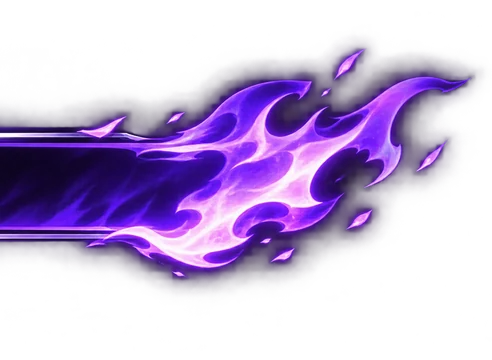
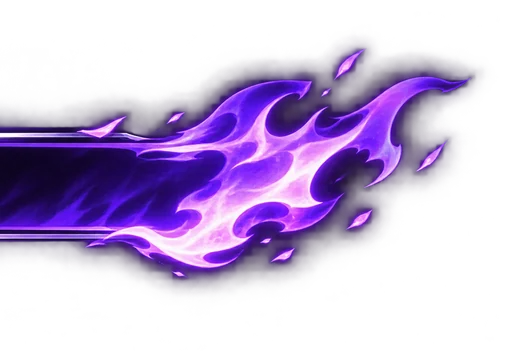
炎の枠: 右端の切れを直し、炎の揺れ・火の粉・光を止める
Claude-Session: https://claude.ai/code/session_015yQDkHHgGwZRUv8gTA9cxp

Changed region(s): [[0.122, 0.1222, 0.9756, 0.7944], [0.3049, 0.4889, 0.3354, 0.5194], [0.0915, 0.5806, 0.122, 0.6111]]

diff --git a/site/titles.css b/site/titles.css
@@ -280,50 +280,23 @@
   --bz-f: none; --bz-glow: #b46bff;
   position: relative; display: inline-flex; align-items: center; flex-shrink: 0;
   height: var(--h); vertical-align: middle;
-  min-width: calc(var(--s) * 785);
-  padding: 0 calc(var(--s) * 372) 0 calc(var(--s) * 96);
+  min-width: calc(var(--s) * 801);
+  padding: 0 calc(var(--s) * 388) 0 calc(var(--s) * 96);
   font-family: 'Mochiy Pop One', sans-serif; font-size: 10px; line-height: 1; white-space: nowrap;
   color: #fff; isolation: isolate; filter: var(--bz-f);
 }
 .bz > i { position: absolute; top: calc(var(--s) * -127); height: calc(var(--s) * 360);
           background: no-repeat center / 100% 100%; pointer-events: none; z-index: -1; }
 .bz .bz-l { left: 0; width: calc(var(--s) * 293); background-image: url(/assets/skins/blaze-left.webp); }
-.bz .bz-m { left: calc(var(--s) * 293 - 1px); right: calc(var(--s) * 492 - 1px); background-image: url(/assets/skins/blaze-mid.webp); }
-.bz .bz-r { right: 0; width: calc(var(--s) * 492); background-image: url(/assets/skins/blaze-right.webp);
-            transform-origin: 20% 50%; animation: bz-burn 1.6s ease-in-out infinite; }
-/* 炎のうしろの光 */
+.bz .bz-m { left: calc(var(--s) * 293 - 1px); right: calc(var(--s) * 508 - 1px); background-image: url(/assets/skins/blaze-mid.webp); }
+.bz .bz-r { right: 0; width: calc(var(--s) * 508); background-image: url(/assets/skins/blaze-right.webp); }
+/* 炎のうしろの光(動かさない) */
 .bz .bz-g { right: calc(var(--s) * 40); width: calc(var(--s) * 330); z-index: -2;
-            background: radial-gradient(closest-side, color-mix(in srgb, var(--bz-glow) 55%, transparent), transparent);
-            animation: bz-glow 1.6s ease-in-out infinite; }
-/* 舞い上がる火の粉 */
-.bz .bz-e { right: calc(var(--s) * 60); width: calc(var(--s) * 300); z-index: 1;
-            background:
-              radial-gradient(circle, #fff 0 1px, transparent 1.6px) 20% 70% / 30% 40% no-repeat,
-              radial-gradient(circle, #f0d8ff 0 1.2px, transparent 2px) 60% 60% / 30% 40% no-repeat,
-              radial-gradient(circle, #e2b8ff 0 0.9px, transparent 1.5px) 85% 75% / 30% 40% no-repeat;
-            animation: bz-ember 2.4s linear infinite; }
-.bz .bz-e2 { animation-delay: -1.2s; right: calc(var(--s) * 120); }
-/* 棒の上を走る光 */
-.bz .bz-sh { top: 0; height: 100%; left: calc(var(--s) * 90); right: calc(var(--s) * 300); z-index: 0; overflow: hidden;
-             background: linear-gradient(100deg, transparent 40%, rgba(255,255,255,0.28) 50%, transparent 60%) no-repeat;
-             background-size: 50% 100%; animation: bz-sheen 4.5s ease-in-out infinite; }
+            background: radial-gradient(closest-side, color-mix(in srgb, var(--bz-glow) 55%, transparent), transparent); }
 .bz-text { position: relative; z-index: 1; display: inline-flex; flex-direction: column; justify-content: center; gap: 3px; }
 .bz b { font-weight: normal; color: #fff;
         text-shadow: 0 0 4px var(--bz-glow), 0 0 8px var(--bz-glow), 0 1px 0 rgba(0,0,0,0.8); }
 .bz .ttl-sub { display: none; }
-@keyframes bz-burn {
-  0%, 100% { transform: scale(1, 1) skewY(0deg); filter: brightness(1); }
-  30%      { transform: scale(1.03, 1.06) skewY(-1.5deg); filter: brightness(1.15); }
-  60%      { transform: scale(0.99, 0.97) skewY(1deg); filter: brightness(0.95); }
-}
-@keyframes bz-glow { 0%, 100% { opacity: 0.7; } 40% { opacity: 1; } }
-@keyframes bz-ember {
-  0%   { transform: translate(0, 10%); opacity: 0; }
-  20%  { opacity: 1; }
-  100% { transform: translate(8%, -45%); opacity: 0; }
-}
-@keyframes bz-sheen { 0%, 55% { background-position: -60% 0; } 100% { background-position: 220% 0; } }
-
 /* 大きい札(プレイヤーページ) */
 .bz.big { --h: 40px; font-size: 15px; }
 .bz.big .ttl-sub { display: block; font-size: 8.5px; letter-spacing: 0.22em; color: #eadcff;

diff --git a/site/titles.js b/site/titles.js
@@ -65,7 +65,6 @@ window.Titles = (function () {
       // 炎の枠: 絵を3枚並べる。左の飾りに宝石があるのでアイコンは付けない
       return `<span class="bz bz-${d.id}${opts.big ? " big" : ""}" title="${esc(t.label)}">` +
         `<i class="bz-g"></i><i class="bz-l"></i><i class="bz-m"></i><i class="bz-r"></i>` +
-        `<i class="bz-sh"></i><i class="bz-e"></i><i class="bz-e bz-e2"></i>` +
         `<span class="bz-text">${subText ? `<span class="ttl-sub">${esc(subText)}</span>` : ""}` +
         `<b>${esc(t.label)}</b></span></span>`;
     }
